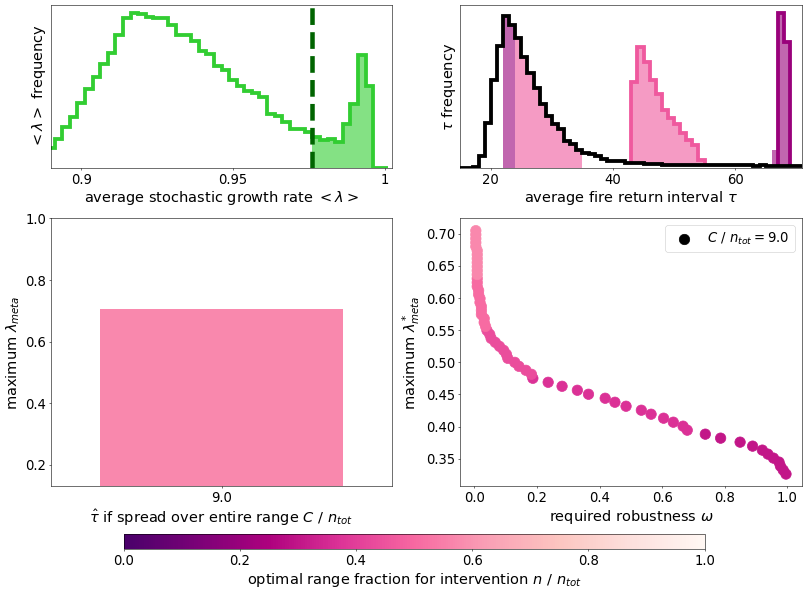
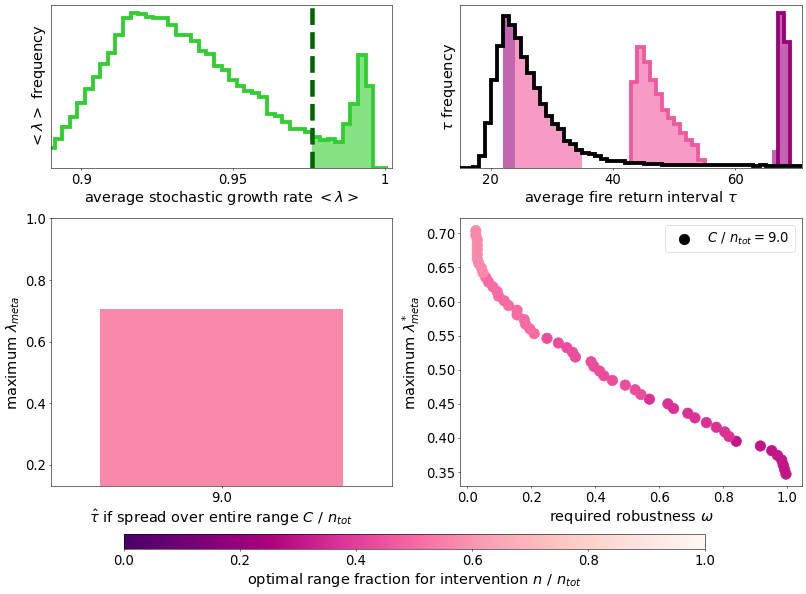
Actually changes likely due to eps ranges

diff --git a/sensitivity/phase_mcsampled.py b/sensitivity/phase_mcsampled.py
@@ -66,19 +66,19 @@ else:
         # 'C': 5.*pproc.ncell_tot,
         # 'ncell': int(0.02*pproc.ncell_tot),
         # 'slice_left': int(0.* pproc.ncell_tot),
-        'mu_tau': -10.,
+        'mu_tau': -9.,
         'sigm_tau': 0.,
-        'mu_tauc': -10.,
+        'mu_tauc': -9.,
         'sigm_tauc': 0.
     }
     maxima = {
         # 'C': 5.*pproc.ncell_tot,
         # 'ncell': int(1. * pproc.slice_right_max),
         # 'slice_left': int(1.*pproc.ncell_tot),
-        'mu_tau': 0.,
-        'sigm_tau': 6.,
+        'mu_tau': 3.,
+        'sigm_tau': 7.,
         'mu_tauc': 0.,
-        'sigm_tauc': 6.
+        'sigm_tauc': 3.
     }
 
     ### Initialize strategy combinations ### 
